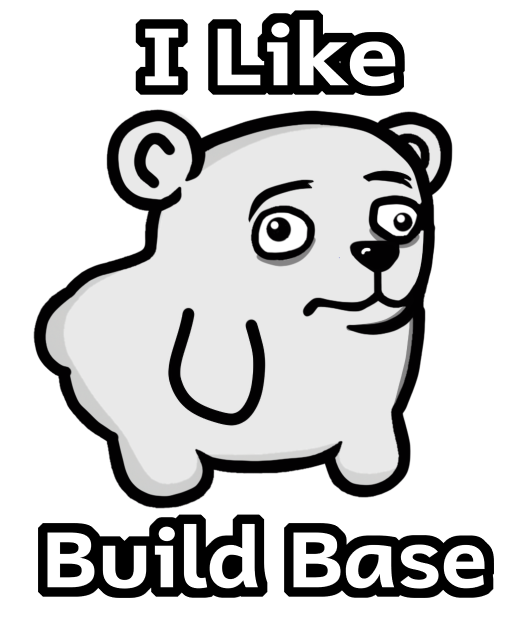
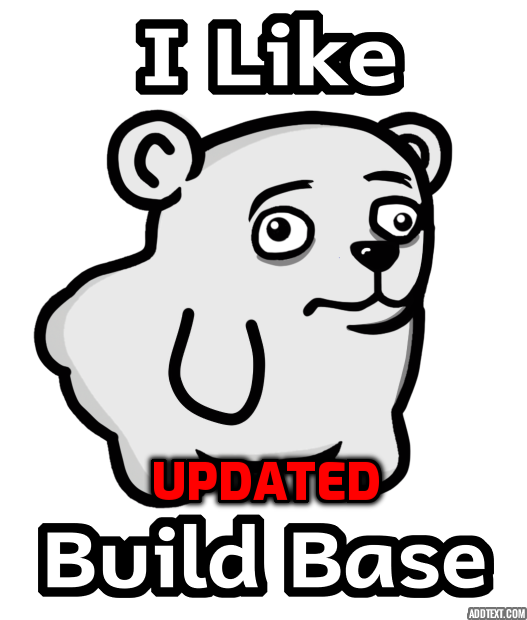
update mod meta

Changed region(s): [[0.2732, 0.7048, 0.7287, 0.8274], [0.8805, 0.9806, 1.0, 1.0]]

diff --git a/README.md b/README.md
@@ -1,0 +1,19 @@
+# ![I Like Build Base](./About/Preview.png)
+
+Do you Like Build Base? Well, this is for you. Now updated to 1.5!
+
+This is a fork of the original by Vex for 1.4.
+
+## Features
+
+New storyteller with no raids, only small incidents, and base building!
+
+## Existing Saves
+
+This mod is safe for saves as it only impacts the game setup steps.
+
+## Bugs and Requests
+
+Let me know if there are any bugs or requests, I'll happily do my best to fix them up!
+
+MIT License | Open to contributions and suggestions!
